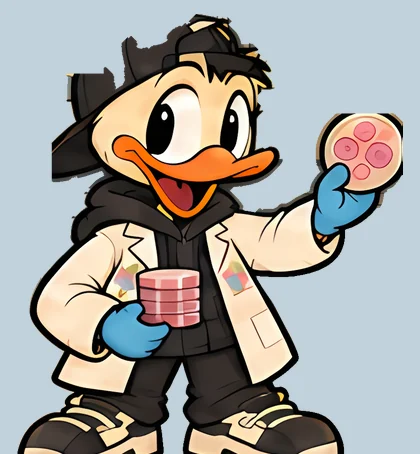
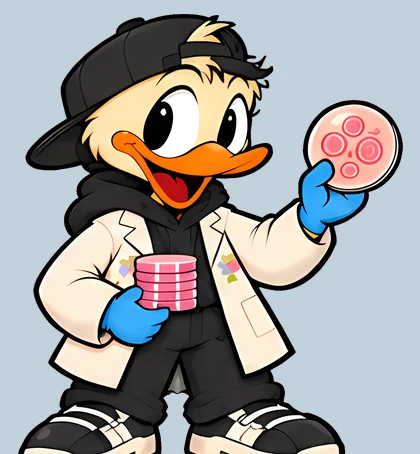
art: clean portraits from the green sheet; add Dawoud and Hora to the club

diff --git a/src/i18n/descriptions.js b/src/i18n/descriptions.js
@@ -13,6 +13,8 @@ export default {
     fayzah: 'رادار النادي. تقول كم كرت يبعد أقرب متنكر عنها، بأقصر طريق حول الطاولة.',
     motivator: 'يقارن: هل المتنكرين اللي أرقامهم أصغر منه أكثر، ولا اللي أرقامهم أكبر؟',
     ahmad: 'هادي وصبور. يقول إن وحدة على الأقل من بطتين بريئة.',
+    dawoud: 'يفحص العينات بمجهره. يقول إذا فيه متنكر جنبه.',
+    hora: 'تخلط وتقارن. تقول إذا بطتين من نفس الفريق أو لا.',
     ritaj: 'تقول إذا جارتيها صادقتين، أو فيهم وحدة كذابة. الكذابة ممكن تكون متنكرة أو مخربطة.',
 
     lab: 'تقول إذا فيه متنكر جنبها أو لا.',
@@ -68,6 +70,8 @@ export default {
     fayzah: 'The club’s radar. Says how many cards away the nearest impostor is, the short way around the table.',
     motivator: 'Compares impostors numbered below him with those numbered above him.',
     ahmad: 'Calm and patient. Says at least one of two ducks is innocent.',
+    dawoud: 'Checks samples under his microscope. Says whether an impostor sits next to him.',
+    hora: 'Mixes and compares. Says whether two ducks are on the same team.',
     ritaj: 'Says whether her two neighbors are truthful, or one of them lies. A liar is an impostor or scrambled.',
 
     lab: 'Says whether an impostor sits next to her.',

diff --git a/src/core/cards.js b/src/core/cards.js
@@ -3,7 +3,7 @@
 export const TIER_POINTS = { legendary: 4, strong: 3, medium: 2, weak: 1, flavor: 1 };
 
 // Portraits on a clean background.
-const CLEAN_ART = ['zahraa', 'ritaj', 'camel', 'abdullah', 'ahmad', 'rawan', 'shouq', 'loujain', 'fayzah', 'bassam', 'ali', 'ruaa', 'motivator'];
+const CLEAN_ART = ['zahraa', 'ritaj', 'camel', 'abdullah', 'ahmad', 'rawan', 'shouq', 'loujain', 'fayzah', 'bassam', 'ali', 'ruaa', 'motivator', 'dawoud', 'hora'];
 
 const club = (id, chapter, kind, ability, targets, extra = {}) => ({
   id, group: 'club', tier: id === 'abdullah' ? 'legendary' : 'strong', chapter, kind,
@@ -32,9 +32,11 @@ export const CARDS = [
   club('ruaa', 3, 'claimIsReal', 'claimIsReal', 1),
   club('zahraa', 3, 'neighborEvilCount', 'neighborEvilCountOf', 1),
   club('fayzah', 3, 'nearestEvil', 'nearestEvilFrom', 1),
+  club('dawoud', 3, 'neighborHasEvil', 'isCorrupted', 1),
   club('motivator', 4, 'sideCompare', 'featherShield', 0),
   club('ahmad', 4, 'oneOfTwoInnocent', 'delayedIdentity', 1),
   club('ritaj', 4, 'neighborsTruthful', 'statementTrue', 1),
+  club('hora', 4, 'sameTeam', 'oneOfThree', 3),
 
   guest('lab', 'weak', 1, 'neighborHasEvil'),
   guest('guard', 'weak', 1, 'prevInnocent'),

diff --git a/src/i18n/ar.js b/src/i18n/ar.js
@@ -12,6 +12,8 @@ export default {
     fayzah: { name: 'فايزة', ability: 'الرادار: اختر كرت وتعرف كم يبعد عنه أقرب متنكر' },
     motivator: { name: 'المحفّز', ability: 'الحماس: أول طرد غلط بعدها ما يخسرك ريشة' },
     ahmad: { name: 'أحمد', ability: 'الصبر: اختر كرت، وبعد أول طرد صح يكشف هويته' },
+    dawoud: { name: 'داود', ability: 'العينة: اختر كرت وتعرف إذا مخربط' },
+    hora: { name: 'هورا', ability: 'التفاعل: اختر 3 كروت وتعرف إذا فيهم متنكر' },
     ritaj: { name: 'د. رتاج', ability: 'الذاكرة: اختر كرت وتعرف إذا جملته صح' },
 
     lab: { name: 'بطة المختبر' },

diff --git a/src/i18n/en.js b/src/i18n/en.js
@@ -12,6 +12,8 @@ export default {
     fayzah: { name: 'Fayzah', ability: 'Radar: pick a card to learn how far the nearest impostor is' },
     motivator: { name: 'Motivator', ability: 'Hype: your next wrong expel costs no feather' },
     ahmad: { name: 'Ahmad', ability: 'Patience: pick a card; after your next correct expel he reveals it' },
+    dawoud: { name: 'Dawoud', ability: 'Sample: pick a card to learn if it is scrambled' },
+    hora: { name: 'Hora', ability: 'Reaction: pick 3 cards to learn if any is an impostor' },
     ritaj: { name: 'Dr. Ritaj', ability: 'Memory: pick a card to learn if its line is true' },
 
     lab: { name: 'Lab Duck' },

diff --git a/sw.js b/sw.js
@@ -1,5 +1,5 @@
 // Generated by tools/make-sw.mjs. Network first so updates show up, cache when offline.
-const CACHE = 'bsc-ducks-40aad3fefc';
+const CACHE = 'bsc-ducks-4f5d7ef789';
 const FILES = [
  "./",
  "index.html",
@@ -37,7 +37,9 @@ const FILES = [
  "assets/ducks/ali.webp",
  "assets/ducks/bassam.webp",
  "assets/ducks/camel.webp",
+ "assets/ducks/dawoud.webp",
  "assets/ducks/fayzah.webp",
+ "assets/ducks/hora.webp",
  "assets/ducks/loujain.webp",
  "assets/ducks/motivator.webp",
  "assets/ducks/rawan.webp",

diff --git a/tests/cards.test.js b/tests/cards.test.js
@@ -8,7 +8,7 @@ test('card ids are unique and groups have the right sizes', () => {
   const ids = CARDS.map(c => c.id);
   assert.equal(new Set(ids).size, ids.length);
   const club = CARDS.filter(c => c.group === 'club');
-  assert.equal(club.length, 13);
+  assert.equal(club.length, 15);
   assert.equal(CARDS.filter(c => c.tier === 'flavor').length, 18);
 });
 

diff --git a/tools/slice-green.py b/tools/slice-green.py
@@ -1,0 +1,49 @@
+# Cuts the club ducks out of the green-screen sheet: crop, upscale, key out the green.
+# Run with the art-tools venv: python tools/slice-green.py
+import subprocess
+from pathlib import Path
+import numpy as np
+from PIL import Image
+from scipy import ndimage as ndi
+
+ESRGAN = Path(r'C:\Users\User\Desktop\AI-Tools\art-tools\esrgan\realesrgan-ncnn-vulkan.exe')
+OUT = Path('assets/ref/green')
+OUT.mkdir(parents=True, exist_ok=True)
+
+BOXES = {
+    'camel': (340, 15, 612, 345), 'abdullah': (655, 15, 925, 345), 'ahmad': (955, 15, 1212, 345),
+    'rawan': (1255, 15, 1505, 345), 'shouq': (45, 350, 315, 672), 'loujain': (365, 350, 622, 672),
+    'fayzah': (662, 350, 890, 672), 'bassam': (950, 350, 1192, 672), 'ali': (1245, 350, 1510, 672),
+    'ruaa': (25, 675, 325, 985), 'motivator': (350, 675, 612, 985), 'dawoud': (628, 675, 900, 985),
+    'hora': (920, 675, 1192, 985),
+}
+
+sheet = Image.open('assets/ref/team-green.png').convert('RGB')
+for name, box in BOXES.items():
+    raw = OUT / f'{name}-raw.png'
+    big = OUT / f'{name}-big.png'
+    sheet.crop(box).save(raw)
+    subprocess.run([str(ESRGAN), '-i', str(raw.resolve()), '-o', str(big.resolve()), '-n', 'realesrgan-x4plus-anime', '-s', '4'],
+                   check=True, cwd=ESRGAN.parent, capture_output=True)
+    px = np.array(Image.open(big).convert('RGB')).astype(float)
+    r, g, b = px[..., 0], px[..., 1], px[..., 2]
+    green = (g - np.maximum(r, b)) / 255
+
+    # solid = clearly not screen; soften the edge and remove green spill from it
+    alpha = np.clip(1 - (green - 0.12) / 0.22, 0, 1)
+    solid = alpha > 0.5
+    labels, count = ndi.label(solid, structure=np.ones((3, 3), bool))
+    if count:
+        sizes = ndi.sum(solid, labels, range(1, count + 1))
+        # keep the duck and anything sizeable beside it, drop specks from neighbours
+        big_parts = [i + 1 for i, s in enumerate(sizes) if s >= 30]
+        keep = np.isin(labels, big_parts)
+        alpha = np.where(ndi.binary_dilation(keep, iterations=2), alpha, 0)
+    spill = green > 0
+    px[..., 1] = np.where(spill, np.maximum(r, b), g)
+
+    out = np.dstack([px, alpha * 255]).astype('uint8')
+    Image.fromarray(out, 'RGBA').save(OUT / f'{name}.png')
+    raw.unlink()
+    big.unlink()
+    print(name, out.shape[1], out.shape[0])
